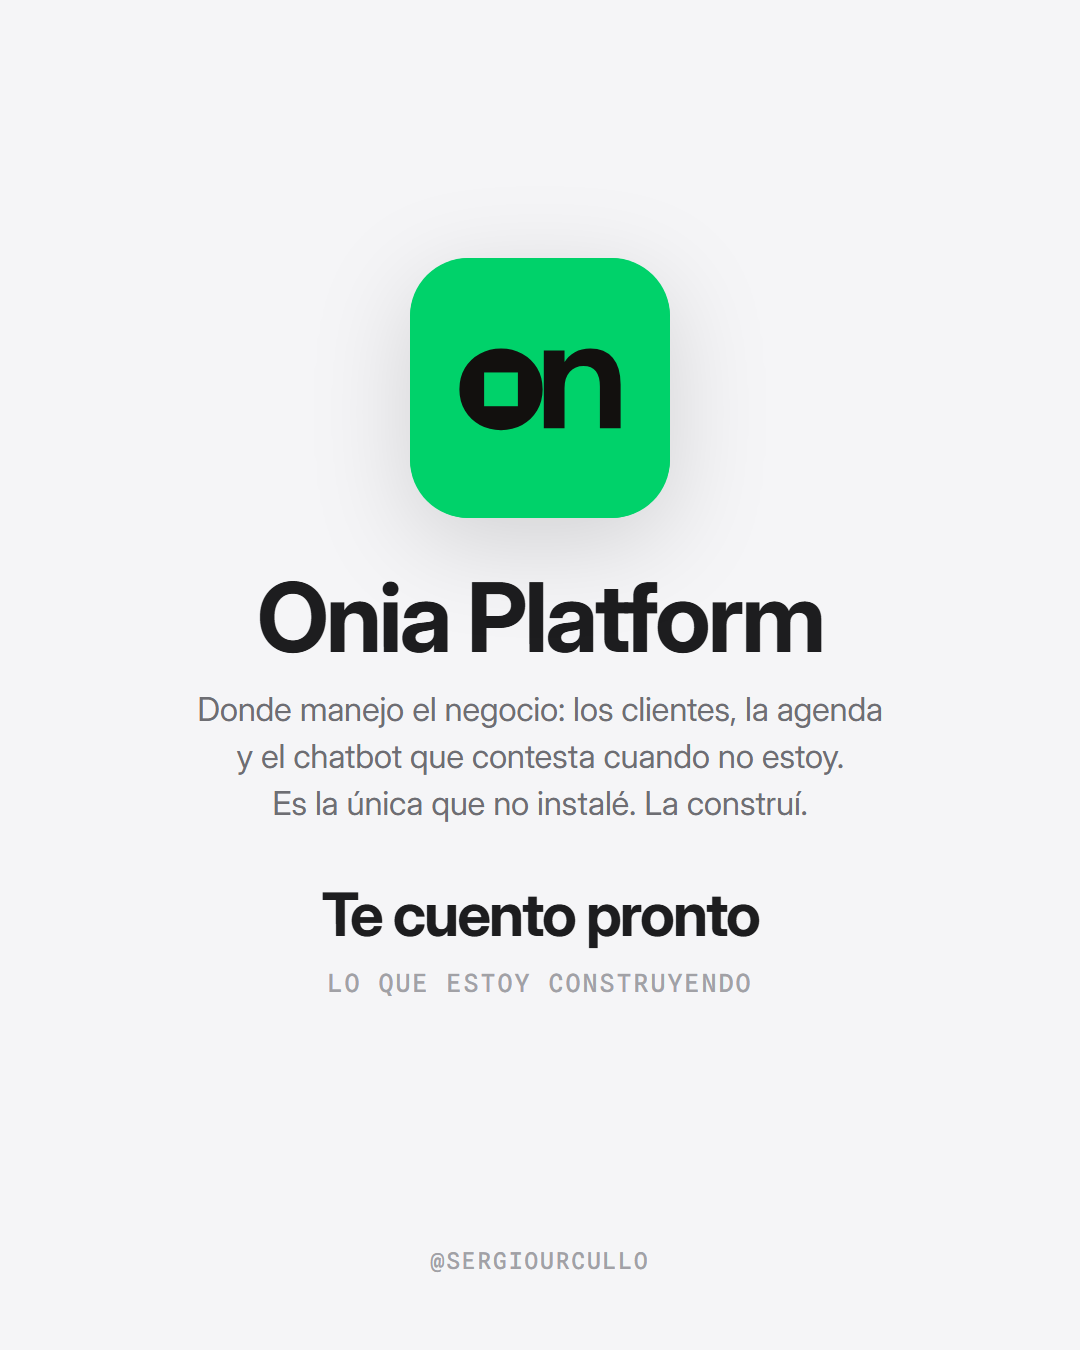
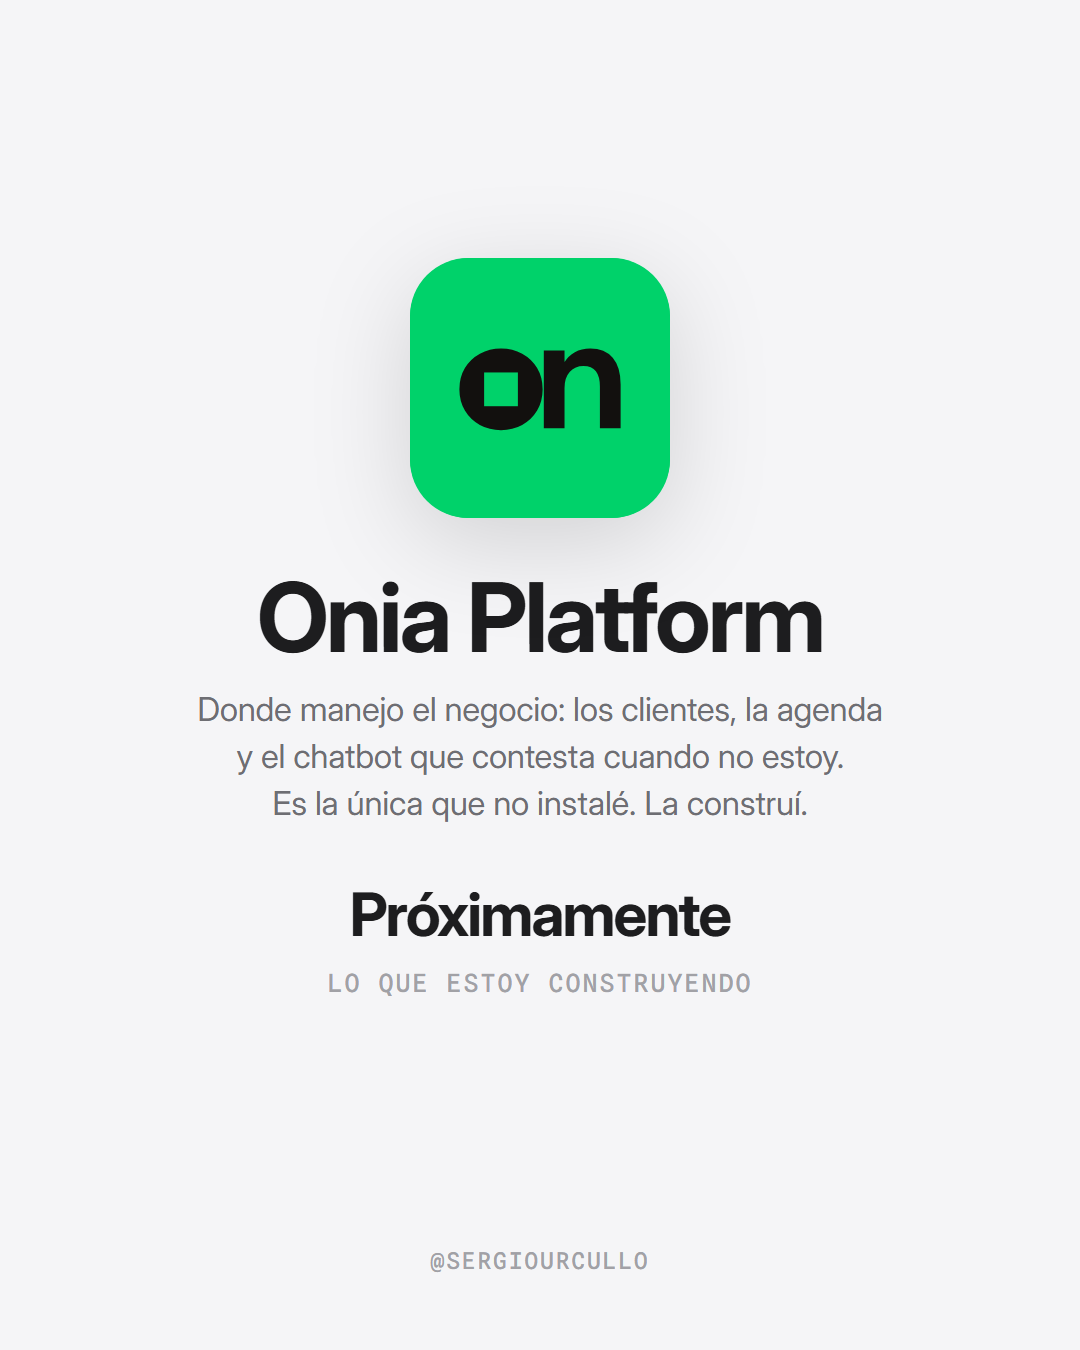
feat(marca-personal): "Próximamente" literal — excepción ratificada por Sergio Urcullo
Se le planteó el choque con CLAUDE.md § "La venta nunca exhibe obra", que prohíbe
esa palabra exacta en superficie de cliente y que nació de él el 2026-08-20 ("hace
escapar a los clientes"). Se le ofreció "Te cuento pronto" como alternativa que
daba la misma intriga sin hablar del estado del producto. Respondió: "ponela
literal, próximamente".

Queda así. Es su marca y su decisión, tomada con la regla delante.

Registrado en dos lugares para que ninguna sesión futura lo revierta creyendo que
fue un descuido: la trampa #14 de la FICHA y un comentario en el generador, los
dos diciendo que la excepción vale SOLO para esta lámina y que la regla sigue
vigente en todo lo demás.

Changed region(s): [[0.3056, 0.6533, 0.7028, 0.7156]]

diff --git a/scripts/marca-personal/generar-apple-editorial.py b/scripts/marca-personal/generar-apple-editorial.py
@@ -251,11 +251,13 @@ LAMINAS = [
     # El cierre del arco: lo unico del stack que no instalo, sino que construyo. Va ultima
     # a proposito — es la carta mas fuerte y la unica que lleva el verde de Onia.
     #
-    # ⚠ El slot de precio dice "Te cuento pronto" y NO "Próximamente", que fue la palabra
-    # que pidio Sergio Urcullo. Motivo: CLAUDE.md § "La venta nunca exhibe obra" prohibe
-    # explicitamente "próximamente" en toda superficie que ve un cliente, y esa regla nacio
-    # de el ("hace escapar a los clientes"). "Te cuento pronto" da la misma intriga hablando
-    # de la HISTORIA, no del estado del producto. Si el ratifica la palabra literal, se cambia.
+    # ⚠ "Próximamente" es una EXCEPCION EXPLICITA a CLAUDE.md § "La venta nunca exhibe obra",
+    # que prohibe esa palabra exacta en toda superficie que ve un cliente. Se le planteo el
+    # choque a Sergio Urcullo con la regla citada, se ofrecio "Te cuento pronto" como
+    # alternativa, y el 2026-09-06 el RATIFICO la palabra literal: "ponela literal,
+    # próximamente". Es su decision y su marca.
+    # NO revertir esto por leer la regla: la regla sigue vigente para todo lo demas, y esta
+    # excepcion vale SOLO para esta lamina. Detalle en la trampa #14 de la FICHA.
     #
     # Promesas: agenda y clientes son 🟢 en ONIA_CATALOGO_DE_VENTA.md; el chatbot es 🟢 en
     # su §5. Sin precio de producto: es contenido, no venta.
@@ -264,7 +266,7 @@ LAMINAS = [
         "icono": "onia",
         "nombre": "Onia Platform",
         "desc": "Donde manejo el negocio: los clientes, la agenda\ny el chatbot que contesta cuando no estoy.\nEs la única que no instalé. La construí.",
-        "precio": "Te cuento pronto",
+        "precio": "Próximamente",
         "etiqueta": "Lo que estoy construyendo",
     },
     {

diff --git a/hermes-content/references/ui-patterns/apple-editorial/FICHA.md b/hermes-content/references/ui-patterns/apple-editorial/FICHA.md
@@ -165,15 +165,20 @@ aparte y deja el A/B mirable.
    aproximarlo — redibujarlo sería repetir la trampa #9. `_imagen()` lo toma de
    `logos/hermes.*` y cae al glifo de nodos si falta, así el generador nunca se rompe por un
    asset ausente: sólo entrega menos.
-14. 🔴 **"Próximamente" está PROHIBIDO, y lo pidió Sergio Urcullo.** El 06-sep pidió "algo
-   como próximamente" para la lámina de Onia Platform. `CLAUDE.md` § *La venta nunca exhibe
-   obra* prohíbe exactamente esa palabra en toda superficie que ve un cliente — y la regla
-   **nació de él** el 2026-08-20: *"hace escapar a los clientes porque hacen creer que el
-   sistema no funciona"*.
-   **Resuelto sin desobedecer ni ignorar:** el slot dice **"Te cuento pronto"**. Da la misma
-   intriga, pero habla de la **historia** ("te voy a contar"), no del **estado del producto**
-   ("no está listo"). Esa distinción es la regla entera. Pendiente de su ratificación si
-   quiere la palabra literal.
+14. ⚖ **"Próximamente" — EXCEPCIÓN RATIFICADA por Sergio Urcullo. No revertir.**
+   `CLAUDE.md` § *La venta nunca exhibe obra* prohíbe exactamente esa palabra en toda
+   superficie que ve un cliente, y la regla **nació de él** el 2026-08-20: *"hace escapar a
+   los clientes porque hacen creer que el sistema no funciona"*.
+   El 06-sep la pidió para la lámina de Onia Platform. Se le planteó el choque **con la regla
+   citada** y se ofreció **"Te cuento pronto"** como alternativa — misma intriga, pero
+   hablando de la **historia** en vez del **estado del producto**. Él respondió:
+   *"ponela literal, próximamente"*.
+   **Queda así.** Es su marca y su decisión, tomada con la regla delante. Dos cosas para la
+   sesión que lea esto:
+   - **No lo "corrijas" al leer la regla.** Está registrado acá y en el comentario del
+     generador justamente para que nadie lo revierta creyendo que fue un descuido.
+   - **La excepción vale SOLO para esta lámina.** La regla sigue vigente en todo lo demás:
+     nada de "muy pronto", "beta" ni "en construcción" en ninguna otra superficie.
 15. **Una herramienta que no se usa vuelve mentira toda la pieza.** Notion salió: *"gratis,
    aunque ni lo uso"* (06-sep). El valor entero de «Mi stack» es que las siete cosas son
    reales; una de adorno se lleva puestas a las otras seis. Su `.path` queda vendorizado por
